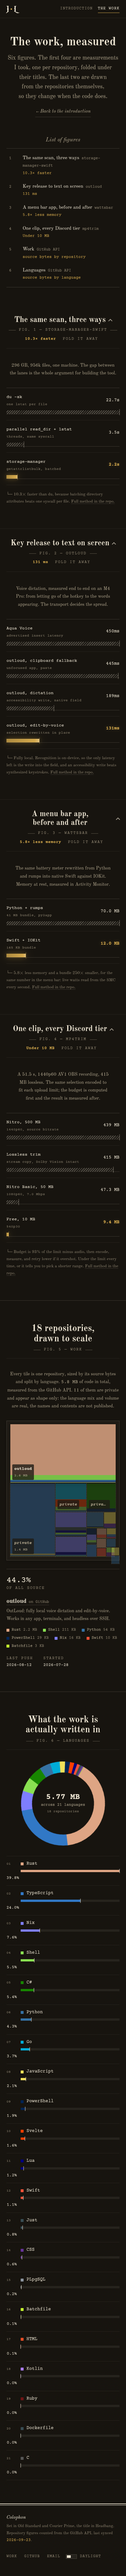
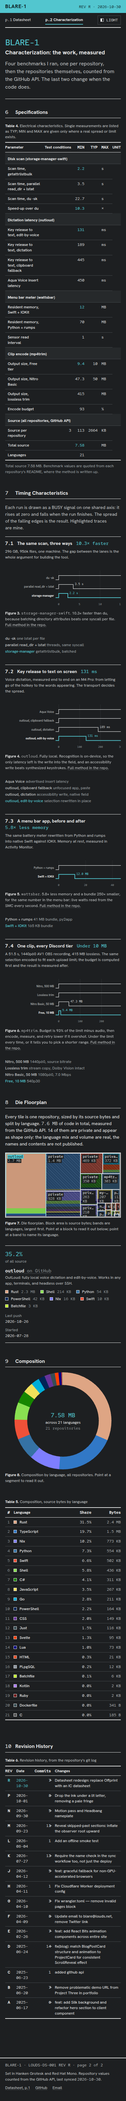
design: DESIGN.md for the Datasheet direction, audit, screens
DESIGN.md replaces DIRECTION.md as the visual authority and records the
first viewport, the block-select interaction and the motion grammar.
DIRECTION.md and ARCHITECTURE.md are marked superseded. AUDIT.md gains a
Datasheet redesign section with the detector findings and their fixes.

diff --git a/design/DESIGN.md b/design/DESIGN.md
@@ -1,0 +1,106 @@
+# DESIGN: louds.net, "Datasheet"
+
+Authority for the visual system of louds.net from 2026-10-30. Supersedes
+`design/DIRECTION.md` (the retired "Offprint" monograph), which stays in the
+repository as evidence only. Product truth lives in `PRODUCT.md`; this file
+only describes how that truth is presented.
+
+## Thesis
+
+The site is the datasheet of an engineer, set the way TI, Analog Devices and
+NXP set an IC datasheet. A datasheet is the one document engineers already
+trust to separate measured values from adjectives: every claim is a
+parameter with a unit and a test condition, every figure is numbered, every
+change is in the revision history. That is the product's positioning
+("evidence over adjectives") turned into a form the audience reads daily.
+It refuses the category default of a portfolio: hero, avatar, card grid of
+projects, contact button.
+
+## World
+
+| Element | Decision |
+|---|---|
+| Ground | Datasheet white `#ffffff`, paper-2 `#f4f5f5` for group rows and the package body only |
+| Ink | `#111314`, secondary `#3b3f42`, tertiary `#5a6064` (6.1:1 on white, used for units and conditions) |
+| Rules | Ink at 2px for table tops/bottoms, page header and footer; ink at 1px under headings; `#c9cdcf` hairlines between table rows |
+| Manufacturer colour | BLARE teal `#006670` (6.6:1 on white). Two jobs only: the header bar on every page, and measured values (Features links, TYP of my rows, highlighted traces, selection). Never decoration |
+| Dark | The same sheet in a dark PDF viewer: graphite `#1d1f21`, ink `#e9eaea`, teal lifted to `#52c6cf`; still one accent, still rules |
+| Data colour | GitHub Linguist colours inside the floorplan and composition figures only, because there colour is data |
+| Text face | Hanken Grotesk 400/500/700 (next/font, self-hosted). A sober neo-grotesk, no display mannerisms |
+| Value face | Red Hat Mono 400/500 with tabular figures, for values, units, part and pin names, identifiers. Never for running text |
+| Corners, shadows | None. Square boxes, hairlines, no shadows, no gradients except the private-repo hatch |
+
+Old fonts (Old Standard, Courier Prime, Headbang) and the WebGL Atlas are
+removed. The Atlas was a generative field, not a measurement; a datasheet
+figure must plot something real, and nothing it drew was, so it went.
+
+## Document structure
+
+Two pages, one continuous numbering, as a printed datasheet runs over pages.
+
+| Page | Route | Sections | Figures / Tables |
+|---|---|---|---|
+| 1 Datasheet | `/` | 1 Features, 2 Applications, 3 Description, 4 Pin Configuration and Functions, 5 Ordering Information | Figure 1 block diagram, Table 1 block summary, Figure 2 package, Table 2 pin functions, Table 3 ordering |
+| 2 Characterization | `/work/` | 6 Specifications, 7 Timing Characteristics (7.1 to 7.4), 8 Die Floorplan, 9 Composition, 10 Revision History | Table 4 electrical characteristics, Figures 3 to 6 timing, Figure 7 floorplan, Figure 8 composition ring, Table 5 composition, Table 6 revisions |
+
+Every page carries the header block (teal bar: part `BLARE-1`, document
+`LOUDS-DS-001`, `REV` = newest revision letter, build date), a running line
+(part + title, page links p.1 / p.2, light/dark switch) on a 2px rule, and a
+footer rule with document id, page n of 2, colophon and links.
+
+Section numbers are information here, not decoration: they continue across
+pages and are cross-referenced in the text ("see 6 Specifications").
+
+## FIRST VIEWPORT
+
+Desktop 1440 x 900, page 1:
+
+1. Teal header bar across the full width (40px): `BLARE-1` left, `LOUDS-DS-001 · REV R · <date>` right, in white.
+2. Running line under it on a 2px ink rule: part and title left, `p.1 Datasheet` (current, teal underline) / `p.2 Characterization` / theme switch right.
+3. Title block, left aligned to the 1200px sheet: `BLARE-1` in Red Hat Mono at ~56px in teal, the title "Systems-Software Engineer, Measured One Layer Below" at ~21px bold, then the thesis sentence from the old title page ("Systems programmer. I build the tools I wish I had, then measure whether they were worth building."), closed by a 1px ink rule.
+4. Two-column body (5fr / 7fr). Left: 1 Features (seven bullets, four carrying the measured headline values as teal mono links into page 2), 2 Applications. Right: Figure 1, the functional block diagram: one die outline, six blocks (SCAN, DICT, PWR, TRIM, CFG, SITE), each with its input signal and pin on the left edge, output on the right, the layer where the fix lived inside the block, and the measured result in teal.
+5. The primary action is in the first viewport twice over: every measured value and every measured block links to its characterization figure on page 2; p.2 sits in the running line.
+
+Mobile 390 wide: same order in one column; the header drops the document
+number (keeps REV and date); the block diagram keeps a 560px drawing and
+scrolls horizontally inside its figure rather than shrinking type below
+legibility.
+
+## Signature interaction
+
+**Block select.** Pointing at a block in Figure 1 (hover or keyboard focus)
+selects it: the block, its wires and both pins switch to teal at 2px, the
+other five blocks drop to hairline grey, and the matching row of Table 1
+lights (teal wash, teal block name). Pointing at a Table 1 row selects its
+block the same way. Leaving clears the selection. Each block is a link: the
+four measured ones go to their timing diagram on page 2, the two unmeasured
+ones go to their repository. The floorplan (Figure 7) carries the same
+grammar: pointing at a die block outlines it in teal and reads it out below;
+pointing inside it names the language band under the pointer.
+
+## Motion grammar
+
+- One unit: the tick, 100 ms. Everything moves in whole ticks, never on an easing curve, the way a logic analyser redraws.
+- One authored moment: the timing diagrams on page 2. A diagram that starts below the fold arms empty; when it scrolls into view a teal cursor sweeps the axis in 24 ticks and each BUSY trace is drawn up to the cursor; traces fall as the cursor passes their value, and the value prints at the falling edge. A diagram already on screen at load is drawn complete, so first paint never flashes from full to empty.
+- State changes (selection, theme, nav) are instant: one frame, no transition.
+- No idle motion. Nothing loops, breathes or drifts.
+- Reduced motion and no JavaScript: the server render is the finished capture; nothing arms, nothing sweeps.
+
+## Honesty rules for the tables
+
+- MIN / TYP / MAX are filled only where truthful. A benchmark run reported once is a TYP with MIN and MAX empty. MAX is used for the Discord upload limits (a real limit). MIN/TYP/MAX together appear only for source bytes per repository (smallest, median, largest of the real snapshot).
+- Advertised third-party numbers say so in the test conditions ("Advertised, not measured here").
+- The revision history is generated from `git log` by `scripts/sync-revisions.mjs` into `lib/revisions.json` (one revision per working day; letters skip I, O, Q, S, X, Z as datasheets do). The header REV is the newest entry. Re-run the script when committing a change that should bump the revision.
+- No employers, testimonials, job history or numbers that are not in `lib/figures.js` or `lib/repos.json`.
+
+## Files
+
+- Tokens `app/styles/tokens.css`; sheet chrome, columns, sections, tables `app/styles/sheet.css`; figures `app/styles/figures.css`.
+- Content model `lib/datasheet.js` (part, blocks, pins, totals), `lib/figures.js` (benchmarks), `lib/revision.js` + `lib/revisions.json`.
+- Components `components/sheet/*` (header, footer), `components/home/*` (BlockDiagram, Pinout), `components/work/*` (SpecTable, Timing, Treemap, Languages, LanguageRing, RevisionHistory).
+
+## Seed
+
+Direction chosen by the user from the impeccable direction round, seed
+reference `seed:ea23ad7e0c4f2399`. Build path: code-led (no image
+generation available).

diff --git a/README.md b/README.md
@@ -8,15 +8,15 @@ The canonical origin used for metadata, the sitemap, and robots.txt lives in
 
 ## The idea
 
-The front page is an introduction: a title page, one living figure (a tiny
-neural network painting a field that drifts and never repeats), and a few
-paragraphs. The measured work lives at `/work`: the `storage-manager-swift`
-benchmark run as a race, folded under the page title; a squarified treemap
-of the real repositories, each tile sized by actual source bytes and split
-into language bands; and the languages, counted. One signal colour per theme
-(fountain-pen blue by daylight, old gold by lamplight) marks only what has
-been measured; every other saturated colour on the page is carrying data.
-The full design direction lives in `design/DIRECTION.md`.
+The site is the datasheet of an engineer, set like a semiconductor
+datasheet. Page 1 (`/`) is the part's front page: features, applications,
+a functional block diagram with one block per project, the description,
+pinout and ordering information. Page 2 (`/work`) is the characterization:
+an electrical characteristics table, the four benchmarks as timing
+diagrams, the repositories as a die floorplan (a squarified treemap sized
+by real source bytes and split into language bands), language composition,
+and a revision history generated from git log. The design authority is
+`design/DESIGN.md`.
 
 ## Running it
 
@@ -27,14 +27,19 @@ npm test           # treemap, band-probe, and privacy tests
 npm run build      # static production build
 ```
 
-Two browser-driven scripts need a server running and Chrome installed
-(they load Playwright from the npx cache, no install step):
+Two browser-driven scripts need a server running and Chromium. Point
+`PLAYWRIGHT_PATH` at a playwright install and `CHROME_PATH` at a Chromium
+binary (defaults: the npx cache and the installed Chrome channel):
 
 ```bash
-npx next start -p 3778 &
-npm run test:acceptance          # ~80 checks over / and /work: fonts, layout, atlas, motion, theme, reduced motion
-URL=http://localhost:3000/ npm run screens   # regenerate design/screens/review/
+npx next start -H 127.0.0.1 -p 3778 &
+npm run test:acceptance          # ~80 checks: header block, sections, signature interaction, timing motion, no-JS, reduced motion, mobile
+npm run screens                  # regenerate design/screens/review/
 ```
+
+After committing, `node scripts/sync-revisions.mjs` refreshes
+`lib/revisions.json`, which feeds the revision history table and the REV in
+the page header.
 
 ## Repository data
 
@@ -48,24 +53,24 @@ npm run sync:repos              # add GITHUB_TOKEN=... to raise the rate limit
 
 Adding a repository needs nothing else. Its treemap tile, language bands, and
 row in the languages table all derive from the snapshot. Optionally add a
-sentence to `NOTES` in `components/Work.jsx` to override the GitHub description
+sentence to `NOTES` in `components/work/Treemap.jsx` to override the GitHub description
 in the readout, and a colour to `lib/languageColors.js` if the language is new.
 
 ## Layout
 
 | Path | Purpose |
 |---|---|
-| `app/page.jsx` | Front page: title, atlas, about |
-| `app/work/page.jsx` | The figures: benchmark, treemap, languages |
-| `app/globals.css` | Design tokens and all component styles |
-| `app/motion.css` | Load sequence, idle motion, reveals, theme crossfade |
-| `components/Hero.jsx` | Title page |
-| `components/Atlas.jsx` | The drifting CPPN figure |
-| `components/Benchmark.jsx` | Benchmark race, as a disclosure |
-| `components/Work.jsx` | Repository treemap and readout |
-| `components/Stack.jsx` | Language ranking |
+| `app/page.jsx` | Page 1: features, block diagram, description, pins, ordering |
+| `app/work/page.jsx` | Page 2: specifications, timing, floorplan, composition, revisions |
+| `app/styles/` | `tokens.css`, `base.css`, `sheet.css` (chrome, sections, tables), `figures.css` |
+| `components/sheet/` | Page header block and footer |
+| `components/home/` | `BlockDiagram` (Figure 1 + Table 1), `Pinout` |
+| `components/work/` | `SpecTable`, `Timing`, `Treemap`, `Languages`, `LanguageRing`, `RevisionHistory` |
+| `lib/datasheet.js` | Part number, blocks, pins, snapshot totals |
+| `lib/figures.js` | The four benchmarks, quoted from each repository |
 | `lib/treemap.js` | Squarified treemap layout |
 | `scripts/sync-repos.mjs` | Writes `lib/repos.json` |
+| `scripts/sync-revisions.mjs` | Writes `lib/revisions.json` from git log |
 | `scripts/test-treemap.mjs` | Property tests for the layout |
 | `scripts/test-acceptance.mjs` | Browser acceptance checks against a running server |
 | `scripts/capture-screens.mjs` | Full-page screenshots, both themes, desktop and mobile |

diff --git a/design/AUDIT.md b/design/AUDIT.md
@@ -132,3 +132,47 @@ applied inside a View Transition callback.
 | 4 | Responsive | 3 | 3 |
 | 5 | Integrity | 2 | 4 (layered cascade, grouped components, figures as data) |
 | **Total** | 13 | **17/20** |
+
+## Datasheet redesign
+
+Audited 2026-10-30 on branch `agent/impeccable-redesign` after the full
+visual replacement described in `design/DESIGN.md`. Tooling: impeccable
+detector (`impeccable detect --json`, rendered URL scans of `/` and
+`/work/` from `next start -H 127.0.0.1 -p 3778`), Node 22 (nix shell),
+Chromium 156 (nix).
+
+### Commands
+
+| Step | Result |
+|---|---|
+| `npm test` | pass (privacy name comparison UNVERIFIED as before: `gh` not authenticated on this host; structural checks pass) |
+| `npm run lint` | no warnings |
+| `npm run build` | ok. `/` 8.8 kB (114 kB first load), `/work` 5.2 kB (111 kB) |
+| `npm run test:acceptance` | 79 passed, 0 failed (suite rewritten for the new markup) |
+
+### Detector
+
+First scan (1280x800 and 390x844) found:
+
+| Rule | Where | Verdict |
+|---|---|---|
+| `line-length` x3 | Description paragraph 2, section 7 intro, floorplan lede | **Fixed.** `.ds-p` capped at 60ch; the two-column Description capped at 1000px so each column stays near 70 characters |
+| `body-text-viewport-edge` (mobile `/work`) | `article.timing` 146px past the right edge | **Fixed.** Real bug: grid items defaulted to `min-width: auto` and the 520px timing drawing pushed the column out. Grid tracks are now `minmax(0, 1fr)` and the drawing scrolls inside its figure |
+| `repeating-stripes-gradient` (advisory) | `/work`, private tiles in the floorplan | **Justified, kept.** The hatch is not decoration: it is the datasheet convention for a region that exists but is not shown, and it marks exactly the 14 private repositories whose size and languages are real but whose names are withheld. Removing it would make private and public blocks indistinguishable |
+
+Final scan: only the justified hatch advisory remains, on both viewports.
+
+### Review of the renders
+
+Screenshots: `design/screens/review/{front,work}-{desktop,mobile}-{light,dark}.png`.
+Fixed after looking: the axis unit label collided with the last tick
+(moved above the plot); "Direct sensor read" overflowed into the PWR
+result in Figure 1 (now "Sensor read"); block diagram and timing labels were
+illegible at 390px (drawings keep a minimum width and scroll inside their
+figure); the mobile grid overflowed (see above); SVG pin numbers inherited
+link underlines.
+
+### Removed, with reasons
+
+- WebGL Atlas: a generative field that plotted nothing measured. A datasheet figure must be a characteristic of the part; no honest reading of it existed, so it was removed with its acceptance checks and the shader benchmark script.
+- Title-page letters (JL, Headbang, hover lighting), masthead, reveal-on-scroll, race component and all idle motion: retired with the Offprint world. Content they carried (the thesis line, the benchmarks) is kept in the new markup.

diff --git a/design/DIRECTION.md b/design/DIRECTION.md
@@ -1,3 +1,5 @@
+> **Superseded 2026-10-30.** This direction is retired. The authority for the visual system is now `design/DESIGN.md` ("Datasheet"). This file is kept as evidence of the previous look only; do not build from it.
+
 # Direction C — "Offprint"
 
 The site is a scientific monograph, printed. Not a metaphor for one: the

diff --git a/design/ARCHITECTURE.md b/design/ARCHITECTURE.md
@@ -1,3 +1,5 @@
+> **Superseded 2026-10-30** by the Datasheet redesign; see `design/DESIGN.md`. Kept as a record of the Offprint revamp.
+
 # Architecture: louds.net after the revamp
 
 Companion to `DIRECTION.md` (the visual world, unchanged in spirit) and
